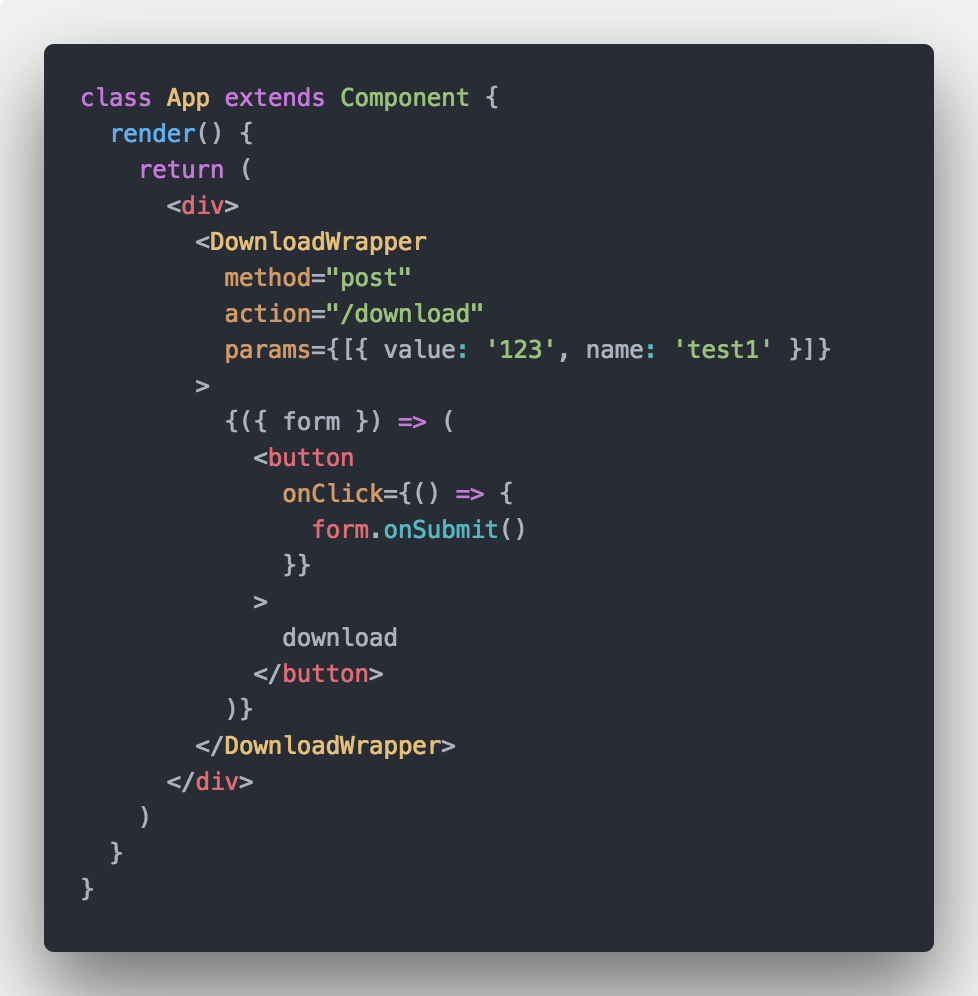
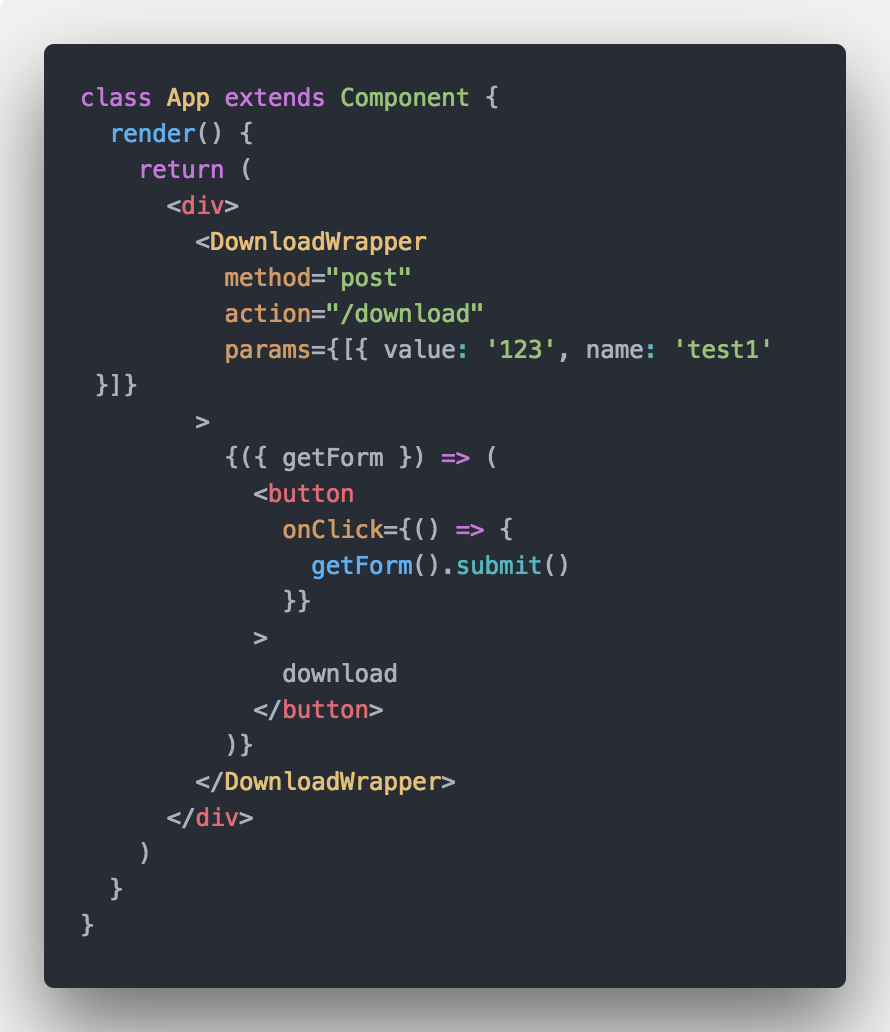
Updated demo

diff --git a/public/app.js b/public/app.js
@@ -13,10 +13,10 @@ class App extends Component {
           action="/download"
           params={[{ value: '123', name: 'test1' }]}
         >
-          {({ form }) => (
+          {({ getForm }) => (
             <button
               onClick={() => {
-                form.onSubmit()
+                getForm().submit()
               }}
             >
               download

diff --git a/README.md b/README.md
@@ -40,8 +40,5 @@ param in array look like
 }
 ```
 
-### onClick
-**PS: Children onClick event will be wrote ，so pass onClick event in wrapper**
-
 ## MIT
 
